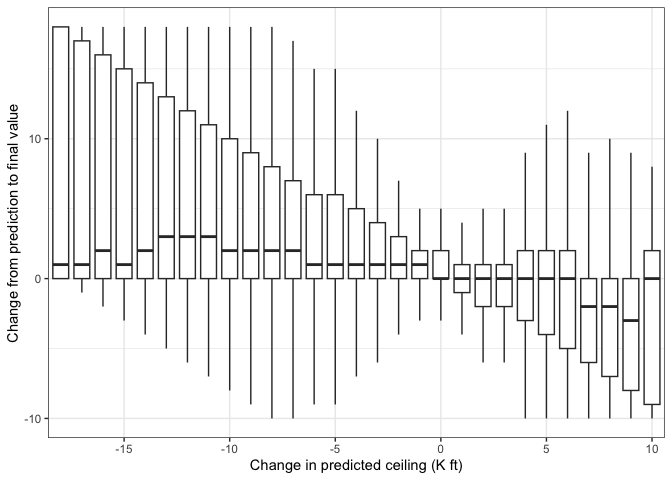
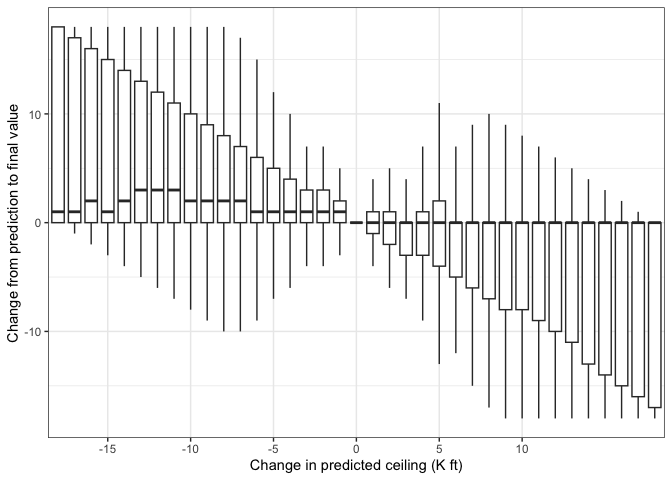
Added grouping of ceilings to summary statistics.

diff --git a/output/Statistics.md b/output/Statistics.md
@@ -60,3 +60,10 @@ the prediction for better or for worse are highly indicative of the
 forecast being uncertain.
 
 ![](Statistics_files/figure-markdown_github/unnamed-chunk-7-1.png)
+However, changes in ceiling do not mean the same thing when the
+predicted ceiling is 100 ft vs. 12,000 ft. If we break it down by
+currently predicted ceiling rounded to the nearest 1000 ft, a pattern
+begins to emerge for intermediate predictions: Here improvements tend to
+be optimistic, but worsening predictions tend to come true.
+
+![](Statistics_files/figure-markdown_github/unnamed-chunk-8-1.png)
